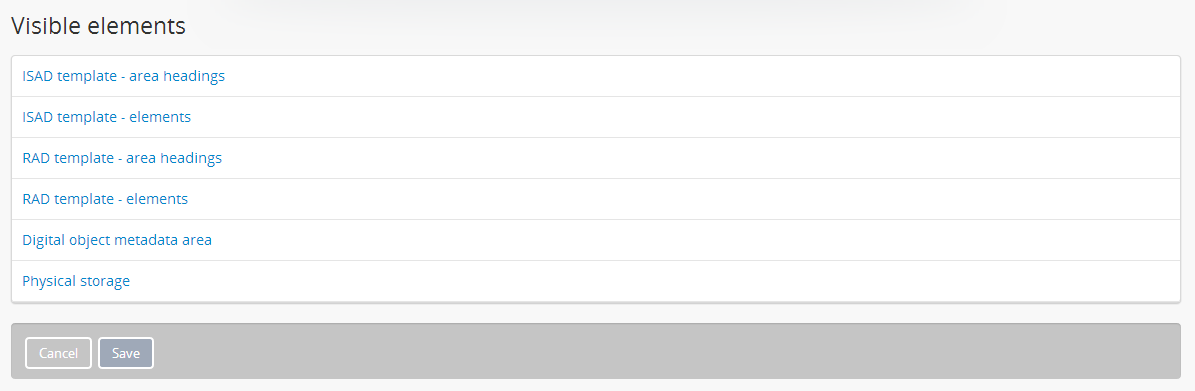
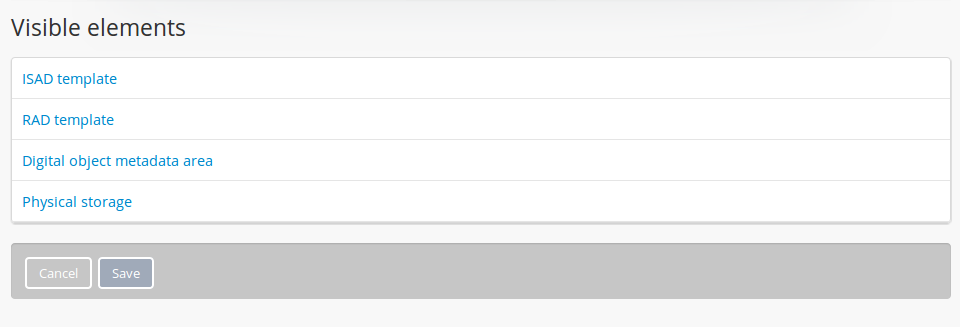
Updated visible elements page

diff --git a/user-manual/administer/visible-elements.rst b/user-manual/administer/visible-elements.rst
@@ -6,7 +6,8 @@ Visible elements
 
 :term:`Visible elements <visible elements>` enables an :term:`administrator` to
 "hide" specific :term:`fields <field>` in the database from the public (i.e.,
-unauthorized users, or users who are not logged in).
+unauthorized users, or users who are not logged in). It also allows
+administrators to hide the :ref:`Physical storage <physical-storage>` area.
 
 .. |gears| image:: images/gears.png
    :height: 18
@@ -19,13 +20,45 @@ To access the visible elements menu, click on the |gears| :ref:`Admin
 
 .. image:: images/visible-elements.*
    :align: center
-   :width: 90%
+   :width: 80%
    :alt: An image of the Visible elements menu in AtoM
 
-An authenticated (i.e. logged-in) :term:`administrator` can click on the
+Hide or show metadata fields
+============================
+
+An authenticated (logged-in) :term:`administrator` can click on the
 checkboxes to reveal the :term:`field`, while an unchecked box hides the field.
-To review which fields can be hidden from view, select :ref:`ISAD template
-<isad-template>`, :ref:`RAD template <rad-template>`, Digital object metadata
-area, and/or :ref:`physical storage <physical-storage>`.
+To review which fields can be hidden from the public, select ISAD template, RAD
+template, or Digital object metadata area as applicable. Whether you
+hide/show elements from the ISAD or RAD area depends on which
+:ref:`default template <default-template>` you are using.
+
+.. image:: images/visible-elements-check.*
+   :align: center
+   :width: 80%
+   :alt: Visible elements menu with checkboxes.
+
+Click "Save" to save your changes.
+
+Hide or show Physical storage
+=============================
+
+Administrators can select whether Physical storage information is visible to
+unauthorized (not logged-in) users or not by clicking on Physical storage area, and
+checking or unchecking the Physical storage button.
+
+.. image:: images/visible-elements-physical.*
+   :align: center
+   :width: 80%
+   :alt: Visible elements menu for physical storage
+
+Click "Save" to save your changes.
+
+.. NOTE::
+
+   If physical storage is hidden to unauthorized users, the physical
+   storage information will also be missing from exported EAD file, if
+   exported by a non-authenticated user.
+
 
 :ref:`Back to top <visible-elements>`
